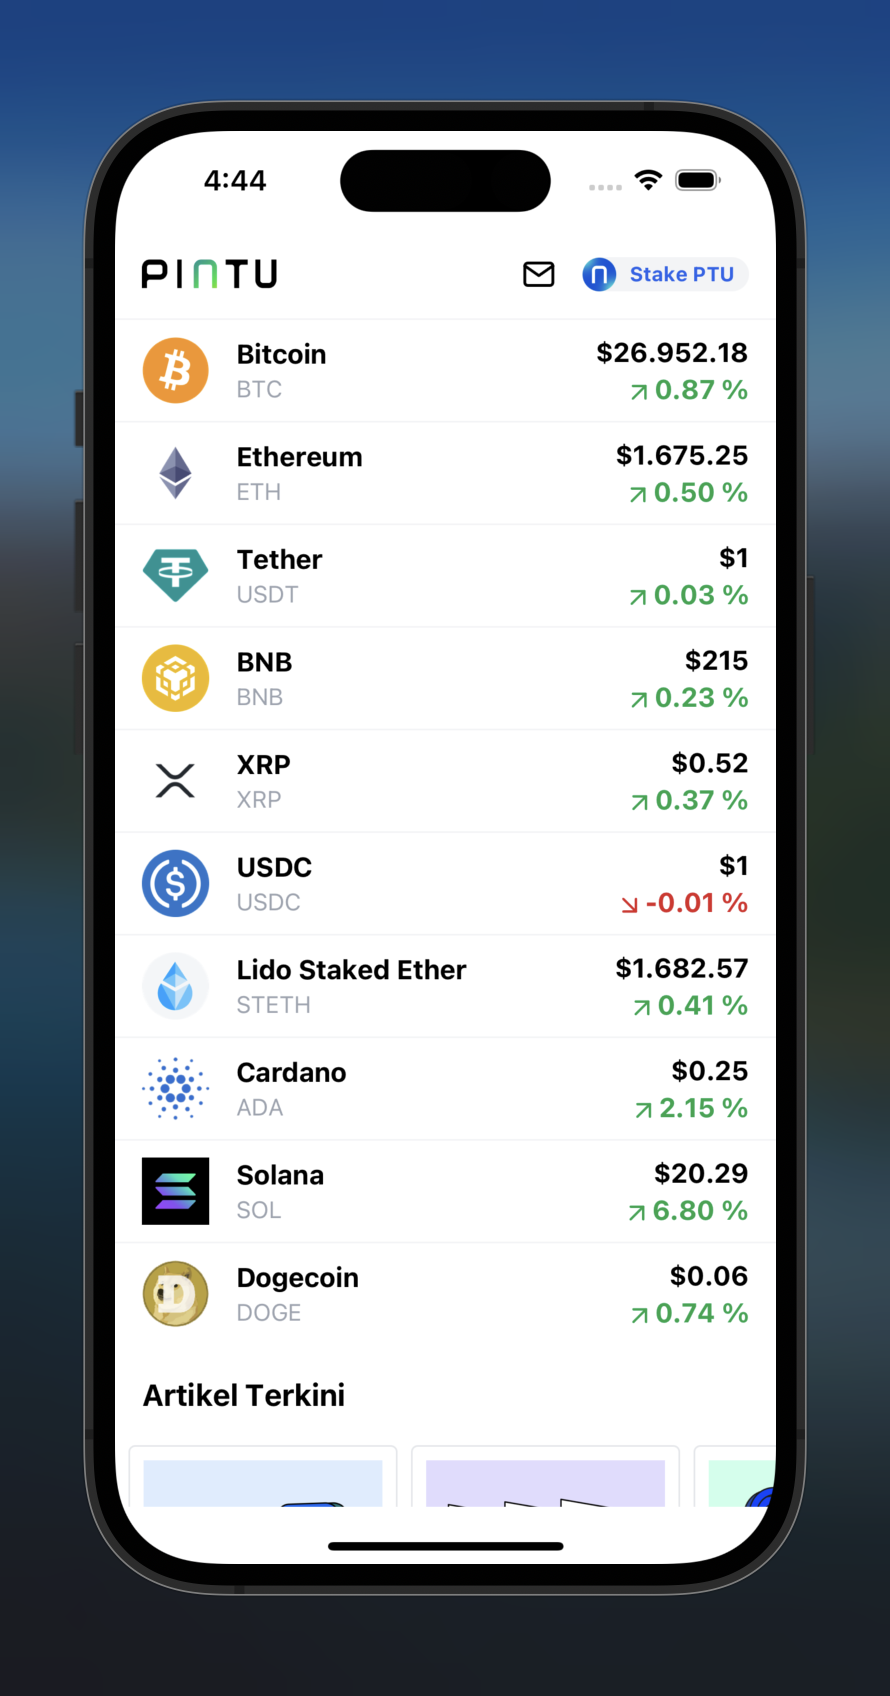
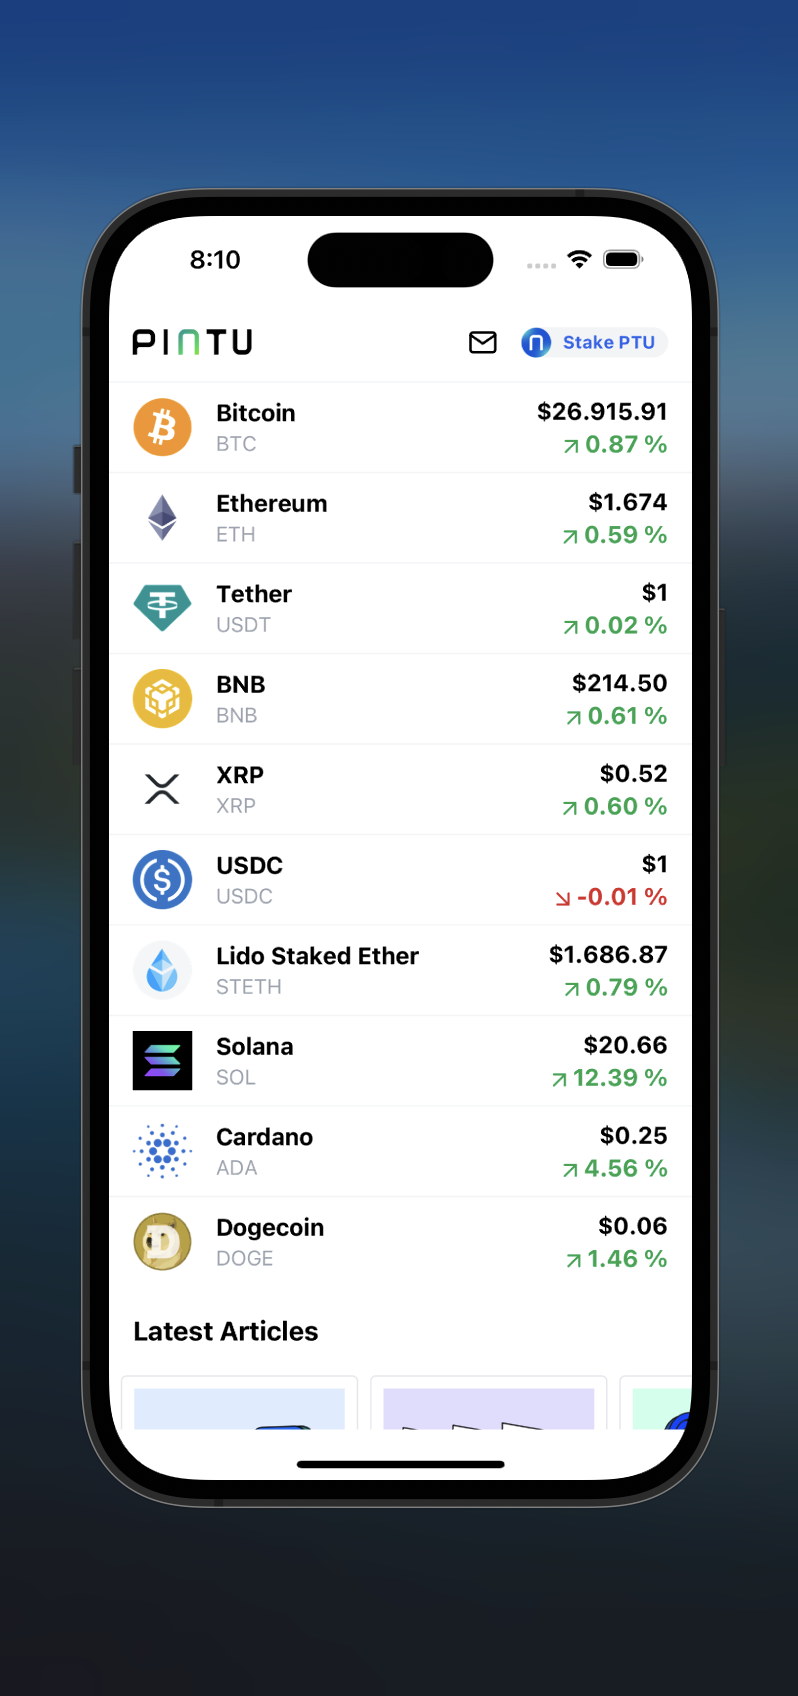
chore: update readme

Changed region(s): [[0.0602, 0.0312, 0.9323, 0.9375]]

diff --git a/src/components/detail/OrderBookList.tsx b/src/components/detail/OrderBookList.tsx
@@ -41,7 +41,7 @@ function OrderBook({ symbol }: OrderBookProps) {
       <Text color="$black" size="md" bold>Order Book</Text>
       <HStack space="sm">
         <VStack flex={1} space="sm">
-          <Text color="$black" size="sm" bold>Beli</Text>
+          <Text color="$black" size="sm" bold>Bid</Text>
           <VStack space="sm" backgroundColor="$green50" borderRadius="$sm">
             <FlashList
               data={bids}
@@ -54,7 +54,7 @@ function OrderBook({ symbol }: OrderBookProps) {
           </VStack>
         </VStack>
         <VStack flex={1} space="sm">
-          <Text color="$black" size="sm" bold>Jual</Text>
+          <Text color="$black" size="sm" bold>Ask</Text>
           <VStack backgroundColor="$red50" space="sm" borderRadius="$sm">
             <FlashList
               data={asks}

diff --git a/src/screens/HomeScreen.tsx b/src/screens/HomeScreen.tsx
@@ -7,7 +7,6 @@ import Header from '../components/home/Header';
 import { useGetCoinsQuery } from '../module/coins/hooks/useGetCoinsQuery';
 import { type CoinEntity } from '../module/coins/entities/coinEntities';
 import { AppConfig } from '../lib/config';
-import { AxiosError } from 'axios';
 import ErrorModal from '../components/shared/ErrorModal';
 
 export default function HomeScreen() {
@@ -30,7 +29,7 @@ export default function HomeScreen() {
         padding="$4"
         bold
       >
-        Artikel Terkini
+        Latest Articles
       </Text>
       <ArticleList data={[
         {

diff --git a/README.md b/README.md
@@ -1,1 +1,49 @@
-# kscrypto
+# KSCrypto App Documentation
+
+Welcome to the documentation for the KSCrypto App, a powerful cryptocurrency application that provides access to real-time data, market information, and more. This document will help you navigate and understand the various aspects of the app.
+
+## API & Web Socket Stream
+
+### API
+KSCrypto App leverages data from the [Coin Gecko API](https://www.coingecko.com/en/api/documentation) to provide comprehensive cryptocurrency market data. Here are the available endpoints:
+
+- **Get Markets:** Retrieve market data for various cryptocurrencies. Endpoint: `coins/markets`.
+
+- **Get Charts:** Access historical price charts for specific cryptocurrencies. Endpoint: `coins/${id}/ohlc`.
+
+### Web Socket
+The app also utilizes the [Binance Websocket API](https://binance-docs.github.io/apidocs/spot/en/#websocket-market-streams) to provide real-time updates. Here are the available streams:
+
+- **Ticker:** Get real-time ticker updates for specific cryptocurrency pairs. Stream: `ws/exampeusdt@ticker`.
+
+- **Depths:** Receive depth information for order books of specific cryptocurrency pairs. Stream: `ws/exampeusdt@depths`.
+
+## Package & Libraries
+The KSCrypto App is built with several packages and libraries to enhance its functionality and user experience:
+
+- **Expo:** A platform for building cross-platform mobile apps.
+
+- **Gluestack UI:** A Native Base alternative for building intuitive user interfaces.
+
+- **Axios:** A popular JavaScript library for making HTTP requests.
+
+- **React Query:** A library for managing, caching, and synchronizing server state in React applications.
+
+- **Runtypes:** A library for runtime type checking in JavaScript/TypeScript.
+
+- **Loadash Throttle:** A utility library for throttling functions.
+
+- **React Navigation:** A library for navigation in React Native applications.
+
+- **Lucide Icon:** A collection of high-quality SVG icons.
+
+- **Shopify Flashlist:** A library or component used for flash notifications.
+
+## Previews
+Here are some previews of the KSCrypto App to give you a glimpse of its user interface:
+
+| Home | Detail Coin | Order Book |
+|---|---|---|
+| ![Home Page](screenshots/ss1.png) | ![Detail Coin Page](screenshots/ss2.png)  | ![Order Book Page](screenshots/ss3.png)  |
+
+Feel free to explore the app and leverage the provided API and WebSocket streams to access real-time cryptocurrency data and enhance your trading and investment experience. If you have any questions or need further assistance, please refer to the documentation or contact our support team. Happy trading!
